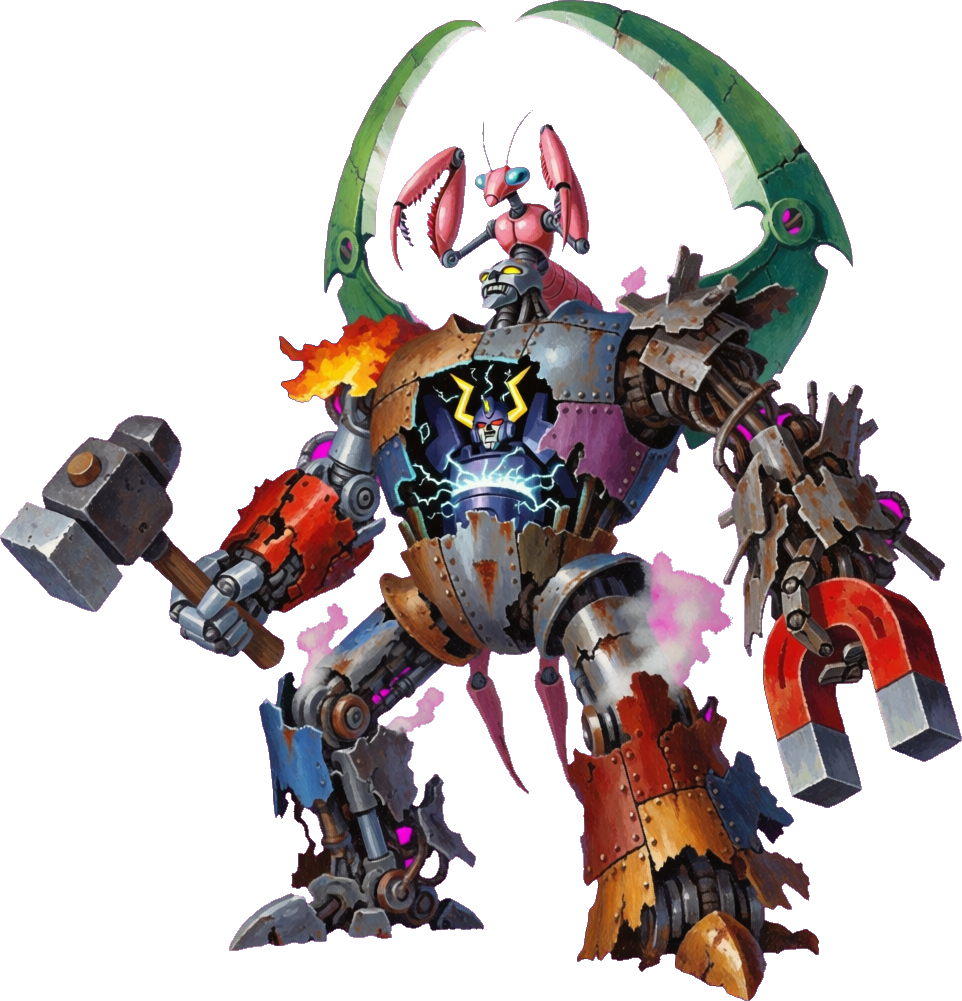
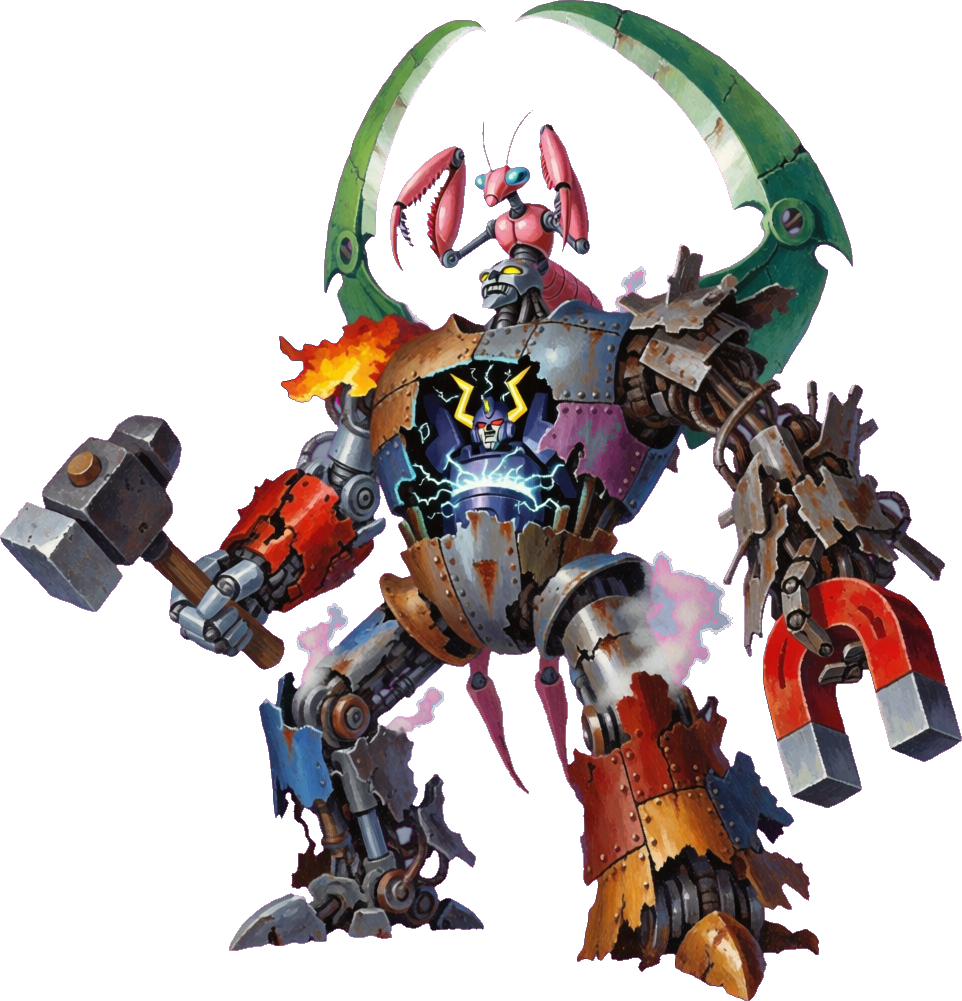
Finale polish: clean art, spell popups, music through the tiers, slower pace
- art/keyout.cjs despills magenta (the Chimera's wing specks, the creator's
  pink lens glare); all four paintings re-cut.
- Casts pop up in a small window at the top (enemy in white, yours and Pip's
  in teal) instead of plain text.
- The music no longer stops when the Chimera falls: it plays on through the
  forms and only switches (to THE CREATOR) when the track changes.
- Shorter and calmer: form HP 900 / 1100 / 900 / 1800, every gauge ~30% slower.

diff --git a/src/scenes/CreatorScene.ts b/src/scenes/CreatorScene.ts
@@ -1,5 +1,5 @@
 import Phaser from 'phaser';
-import { playMusic, stopMusic } from '../audio';
+import { nowPlaying, playMusic, stopMusic } from '../audio';
 import { STEP_MS, VIEW_H, VIEW_W } from '../constants';
 import { Controls } from '../input';
 import { PipPaint, PipShell, pipTexture } from '../pip';
@@ -73,8 +73,8 @@ const TIERS: Tier[] = [
     art: 'chimera.png',
     backdrop: 'bg_storm.jpg',
     box: [128, 196, 188],
-    hp: 1500,
-    speed: 0.0045,
+    hp: 900,
+    speed: 0.0032,
     weak: ['spark', 'flame'],
     music: 'ascension',
     intro: [C(CREATOR, 'YOU BEAT THEM ONE AT A TIME.'), C(CREATOR, "LET'S SEE YOU FACE THEM TOGETHER.")],
@@ -91,8 +91,8 @@ const TIERS: Tier[] = [
     art: 'idol.png',
     backdrop: 'bg_forge.jpg',
     box: [132, 196, 192],
-    hp: 1800,
-    speed: 0.0042,
+    hp: 1100,
+    speed: 0.003,
     weak: ['bubble', 'quake'],
     music: 'ascension',
     intro: [C(CREATOR, 'FIRE, ICE, WIND AND WATER. VERY POETIC.'), C(CREATOR, 'NOW THE MACHINES.')],
@@ -109,8 +109,8 @@ const TIERS: Tier[] = [
     art: 'jared.png',
     backdrop: 'bg_store.jpg',
     box: [128, 200, 194],
-    hp: 1500,
-    speed: 0.005,
+    hp: 900,
+    speed: 0.0035,
     weak: ['flame', 'saw'],
     music: 'ascension',
     intro: [
@@ -131,8 +131,8 @@ const TIERS: Tier[] = [
     art: 'creator.png',
     backdrop: 'bg_void.jpg',
     box: [132, 204, 200],
-    hp: 3000,
-    speed: 0.0048,
+    hp: 1800,
+    speed: 0.0034,
     weak: [],
     music: 'creator',
     intro: [
@@ -238,7 +238,6 @@ export class CreatorScene extends Phaser.Scene {
   private topName!: ReturnType<typeof pixelText>;
   private texts: ReturnType<typeof pixelText>[] = [];
   private menuTexts: ReturnType<typeof pixelText>[] = [];
-  private banner!: ReturnType<typeof pixelText>;
   private omenText!: ReturnType<typeof pixelText>;
   private effects: { x: number; y: number; vx: number; vy: number; life: number; color: number; size: number }[] = [];
   private reelImg: Phaser.GameObjects.Image | null = null;
@@ -286,7 +285,6 @@ export class CreatorScene extends Phaser.Scene {
     this.topText = pixelText(this, 22, 19, '', { color: '#fff1e0' }).setDepth(41).setMaxWidth(380);
     this.winL = this.add.image(4, 186, rpgWindow(this, 150, 50)).setOrigin(0).setDepth(39).setVisible(false);
     this.winR = this.add.image(158, 186, rpgWindow(this, 265, 50)).setOrigin(0).setDepth(39).setVisible(false);
-    this.banner = pixelText(this, VIEW_W / 2, 100, '', { fontSize: '16px', color: '#fff1e0', stroke: '#000000' }).setOrigin(0.5).setDepth(45);
     this.omenText = pixelText(this, VIEW_W / 2, VIEW_H / 2, '', { color: '#ffffff' }).setOrigin(0.5).setDepth(60).setAlign('center');
     // (The camera stays transparent: the painted layer is behind the canvas.)
     this.cameras.main.setBackgroundColor('rgba(0,0,0,0)');
@@ -375,7 +373,8 @@ export class CreatorScene extends Phaser.Scene {
     this.paint.setDim(0);
     this.paint.setBackdrop(FINALE_ART(t.backdrop));
     this.paint.setBoss(FINALE_ART(t.art), t.box[0], t.box[1], t.box[2]);
-    if (i > 0 && TIERS[i - 1].music !== t.music) playMusic(this, t.music);
+    // Keep the music going between forms; switch only when the track changes (or if nothing's on).
+    if (nowPlaying() !== t.music) playMusic(this, t.music);
     this.heroImg.setVisible(true);
     this.pipImg.setVisible(true);
     this.phase = 'fight';
@@ -428,11 +427,11 @@ export class CreatorScene extends Phaser.Scene {
     }
     // Gauges fill (hero's runs backward while reversed, freezes while frozen, crawls while slowed).
     if (!this.menu) {
-      const rate = this.status.has('freeze') ? 0 : this.status.has('slow') ? 0.004 : 0.009;
+      const rate = this.status.has('freeze') ? 0 : this.status.has('slow') ? 0.0028 : 0.0063;
       this.hero.atb = this.status.has('reverse') ? Math.max(0, this.hero.atb - 0.006) : Math.min(1, this.hero.atb + rate);
       if (this.hero.atb >= 1) this.openMenu();
     }
-    this.pip.atb = Math.min(1, this.pip.atb + 0.0065);
+    this.pip.atb = Math.min(1, this.pip.atb + 0.0045);
     if (this.pip.atb >= 1) this.pipActs();
     this.bossAtb += tier.speed * (this.tier === 3 && this.bossHp < tier.hp / 3 ? 0.8 : 1);
     if (this.bossAtb >= 1) {
@@ -440,11 +439,10 @@ export class CreatorScene extends Phaser.Scene {
       this.bossActs();
     }
     for (const d of this.dogs) {
-      d.atb += 0.004;
+      d.atb += 0.0028;
       if (d.atb >= 1) {
         d.atb = 0;
-        this.banner.setText('HOTDOG').setColor('#e86a50');
-        this.time.delayedCall(500, () => this.banner.setText(''));
+        this.showName('HOTDOG', 'enemy');
         this.hurtHero(30, 0xe86a50);
       }
     }
@@ -572,7 +570,7 @@ export class CreatorScene extends Phaser.Scene {
       sfx.chargeShot?.();
     }
     dmg = Math.round(dmg * buff);
-    if (label) this.showName(label);
+    if (label) this.showName(label, 'ally');
     const target = dog >= 0 ? this.dogs[dog] : null;
     const tx = target ? target.img.x : TIERS[this.tier].box[0];
     const ty = target ? target.img.y - 6 : TIERS[this.tier].box[1] - TIERS[this.tier].box[2] * 0.5;
@@ -642,7 +640,7 @@ export class CreatorScene extends Phaser.Scene {
     if (low) {
       const heal = 200;
       this.hero.hp = Math.min(HERO_MAX, this.hero.hp + heal);
-      this.showName('PIP: REPAIR');
+      this.showName('REPAIR', 'ally');
       this.burst(352, 140, 0x5ef0c8, 16);
       this.popText(`${heal}`, 352, 120, '#5ef0c8');
       this.clearStatus('burn');
@@ -652,7 +650,7 @@ export class CreatorScene extends Phaser.Scene {
     }
     if (this.pendingBig && !this.barrier) {
       this.barrier = true;
-      this.showName('PIP: BARRIER');
+      this.showName('BARRIER', 'ally');
       sfx.charge?.(1);
       return;
     }
@@ -704,7 +702,7 @@ export class CreatorScene extends Phaser.Scene {
   /** Say its memory (tier 4), show its name, then do it. */
   private cast(a: Attack, then?: () => void): void {
     const go = () => {
-      this.showName(a.name);
+      this.showName(a.name, 'enemy');
       this.time.delayedCall(450, () => {
         this.doAttack(a);
         then?.();
@@ -822,7 +820,7 @@ export class CreatorScene extends Phaser.Scene {
     for (const d of [...this.dogs]) this.killDog(d);
     this.paint.setDim(0);
     this.status.clear();
-    stopMusic(this.tier === 3 ? 2500 : 0);
+    if (this.tier === TIERS.length - 1) stopMusic(2500);
   }
 
   private stepFall(): void {
@@ -842,7 +840,6 @@ export class CreatorScene extends Phaser.Scene {
     if (this.tier < TIERS.length - 1) {
       this.hero.atb = Math.max(this.hero.atb, 0.5);
       this.startTier(this.tier + 1);
-      if (this.tier === 3) playMusic(this, 'creator');
       return;
     }
     // The end.
@@ -886,9 +883,20 @@ export class CreatorScene extends Phaser.Scene {
 
   // --- effects --------------------------------------------------------------------------
 
-  private showName(name: string): void {
-    this.banner.setText(name).setColor('#fff1e0').setY(100);
-    this.time.delayedCall(900, () => this.banner.text === name && this.banner.setText(''));
+  /**
+   * What's being cast, in a little window at the top (FF style): the enemy's in
+   * white, yours and Pip's in teal. It pops in, holds, and fades.
+   */
+  private popup: Phaser.GameObjects.Container | null = null;
+  private showName(name: string, who: 'enemy' | 'ally'): void {
+    this.popup?.destroy();
+    const w = Math.max(80, name.length * 6 + 28);
+    const box = this.add.image(0, 0, rpgWindow(this, w, 20));
+    const text = pixelText(this, 0, -4, name, { color: who === 'enemy' ? '#fff1e0' : '#5ef0c8' }).setOrigin(0.5, 0);
+    const c = this.add.container(VIEW_W / 2, 66, [box, text]).setDepth(45).setScale(0.6, 0.2).setAlpha(0);
+    this.popup = c;
+    this.tweens.add({ targets: c, scaleX: 1, scaleY: 1, alpha: 1, duration: 120, ease: 'Back.easeOut' });
+    this.tweens.add({ targets: c, alpha: 0, delay: 1300, duration: 250, onComplete: () => (c.destroy(), this.popup === c && (this.popup = null)) });
   }
 
   private popText(text: string, x: number, y: number, color: string): void {
